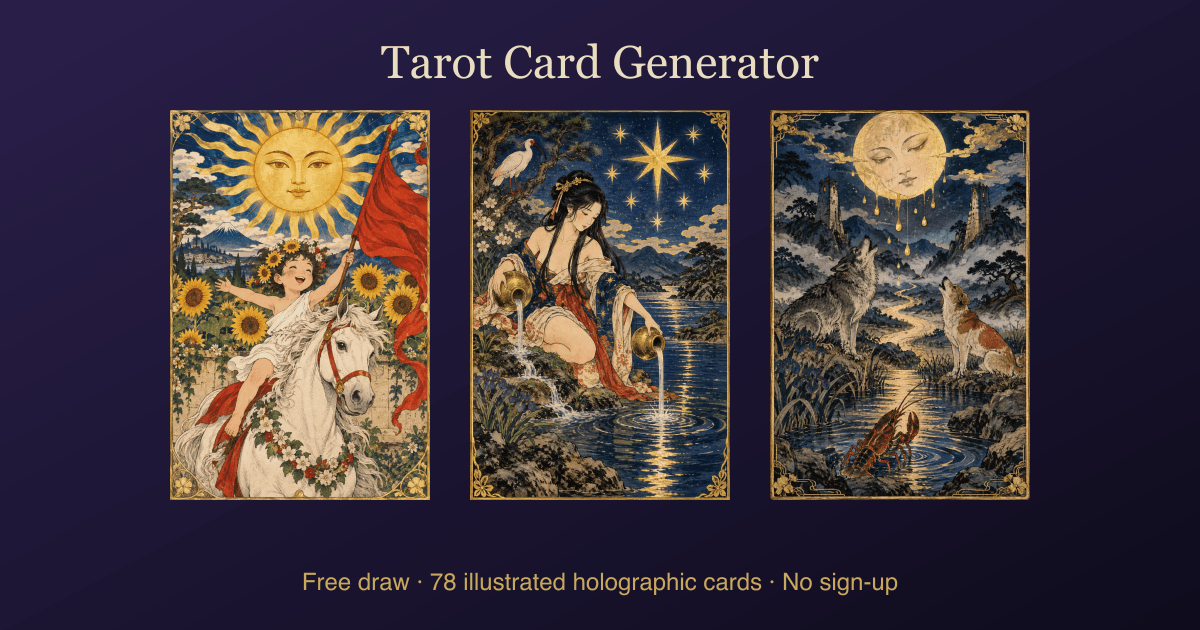
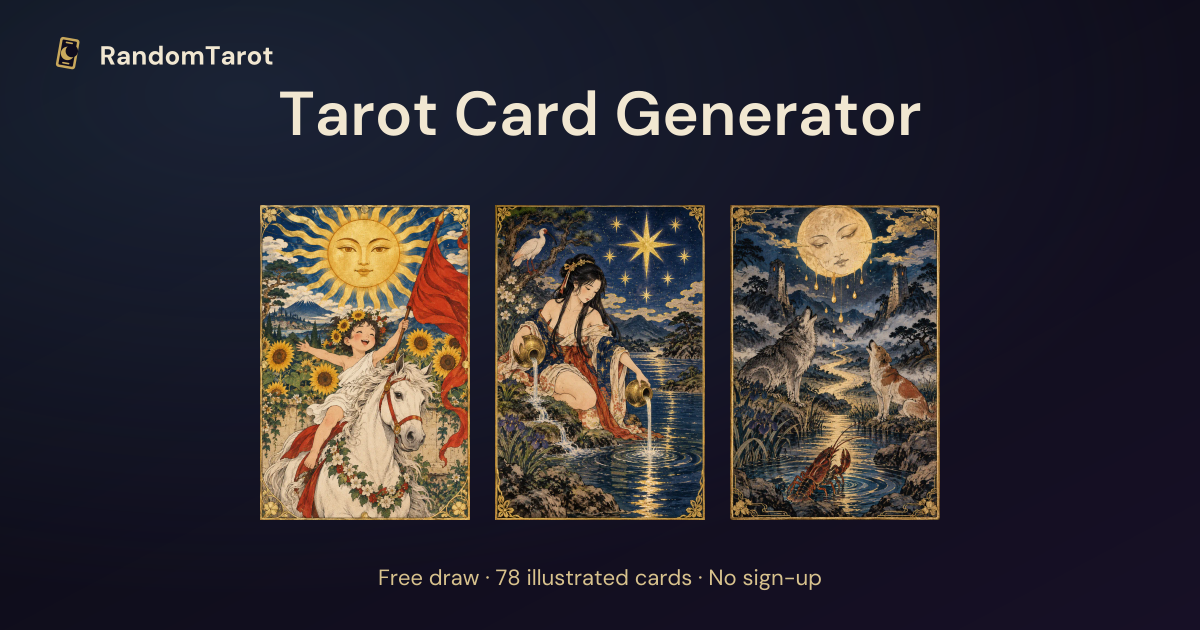
design(type): move to a sans-serif display system and complete brand assets (#44)

diff --git a/public/styles.css b/public/styles.css
@@ -1,9 +1,7 @@
 @font-face{font-family:"DM Sans";font-style:normal;font-weight:400 700;font-display:swap;src:url("/fonts/dm-sans-latin.v1.woff2") format("woff2")}
 @font-face{font-family:"IBM Plex Mono";font-style:normal;font-weight:400;font-display:swap;src:url("/fonts/ibm-plex-mono-regular.v1.woff2") format("woff2")}
 @font-face{font-family:"IBM Plex Mono";font-style:normal;font-weight:500;font-display:swap;src:url("/fonts/ibm-plex-mono-medium.v1.woff2") format("woff2")}
-@font-face{font-family:"Instrument Serif";font-style:normal;font-weight:400;font-display:swap;src:url("/fonts/instrument-serif-regular.v1.woff2") format("woff2")}
-@font-face{font-family:"Instrument Serif";font-style:italic;font-weight:400;font-display:swap;src:url("/fonts/instrument-serif-italic.v1.woff2") format("woff2")}
-:root{--bg:#080b12;--bg2:#0d1320;--card:#111927;--card-raised:#162131;--line:#2a3445;--line-soft:rgba(216,194,141,.16);--text:#f1eee6;--muted:#a4adbb;--gold:#d8c28d;--gold2:#d8c28d;--accent:#f07b5a;--accent-dark:#080b12;--danger:#ff9a8a;--ok:#9ec8ac;--radius:16px;--font:"Instrument Serif",Georgia,serif;--sans:"DM Sans",sans-serif;--mono:"IBM Plex Mono",monospace;--text-meta:.75rem;--text-secondary:.875rem}
+:root{--bg:#080b12;--bg2:#0d1320;--card:#111927;--card-raised:#162131;--line:#2a3445;--line-soft:rgba(216,194,141,.16);--text:#f1eee6;--muted:#a4adbb;--gold:#d8c28d;--gold2:#d8c28d;--accent:#f07b5a;--accent-dark:#080b12;--danger:#ff9a8a;--ok:#9ec8ac;--radius:16px;--font:"DM Sans",system-ui,-apple-system,"Segoe UI",sans-serif;--sans:"DM Sans",sans-serif;--mono:"IBM Plex Mono",monospace;--text-meta:.75rem;--text-secondary:.875rem}
 *{box-sizing:border-box}html{-webkit-text-size-adjust:100%;scroll-behavior:smooth;background:var(--bg)}
 body{margin:0;background:radial-gradient(circle at 12% 4%,rgba(57,78,113,.2),transparent 32rem),radial-gradient(circle at 90% 32%,rgba(240,123,90,.055),transparent 28rem),var(--bg);color:var(--text);font-family:var(--sans);line-height:1.65;min-height:100vh;display:flex;flex-direction:column;overflow-x:clip}
 body::before{content:"";position:fixed;inset:0;pointer-events:none;z-index:-1;opacity:.42;background-image:radial-gradient(circle at 8% 16%,#d8c28d 0 1px,transparent 1.5px),radial-gradient(circle at 78% 8%,#f1eee6 0 1px,transparent 1.5px),radial-gradient(circle at 91% 42%,#d8c28d 0 1px,transparent 1.5px),radial-gradient(circle at 18% 72%,#f1eee6 0 1px,transparent 1.5px),radial-gradient(circle at 62% 86%,#d8c28d 0 1px,transparent 1.5px);background-size:29rem 31rem,37rem 41rem,43rem 47rem,53rem 59rem,61rem 67rem}

diff --git a/public/typography.css b/public/typography.css
@@ -1,0 +1,29 @@
+/* RandomTarot type system: one sans-serif family, three deliberate sizes. */
+:root{
+  --font:"DM Sans",system-ui,-apple-system,"Segoe UI",sans-serif;
+  --display:"DM Sans",system-ui,-apple-system,"Segoe UI",sans-serif;
+  --text-meta:.75rem;
+  --text-secondary:.875rem;
+}
+h1,h2,h3{font-family:var(--display);font-weight:600;color:var(--text);text-wrap:balance}
+h1{font-size:clamp(2.8rem,6.2vw,5.4rem);line-height:.98;letter-spacing:-.055em}
+h2{font-size:clamp(1.95rem,3.8vw,3.1rem);line-height:1.04;letter-spacing:-.042em;margin-top:2.2rem}
+h3{font-size:clamp(1.25rem,1.6vw,1.5rem);line-height:1.15;letter-spacing:-.022em}
+/* Home: keyword-first headline, quiet supporting line. */
+.home-experience .reading-intro h1{font-family:var(--display);font-size:clamp(2.9rem,4.9vw,4.9rem);font-weight:600;line-height:.94;letter-spacing:-.058em;text-transform:none;color:var(--text);margin:.35rem 0 .75rem;max-width:11ch}
+.home-experience .reading-intro .hero-line{font-family:var(--display);font-size:clamp(1.35rem,2.15vw,1.95rem);font-weight:400;line-height:1.18;letter-spacing:-.028em;color:var(--muted);margin:.2rem 0 1.15rem}
+.reading-intro .intro-copy{max-width:38ch}
+.reading-page-intro h1{font-weight:600;letter-spacing:-.052em}
+/* Reading table and report surfaces. */
+.table-welcome h2{font-weight:600;letter-spacing:-.052em}
+.ritual-heading h2,.ritual-reveal-screen .revealed-meaning h3{font-weight:600}
+.report-preview-paper h4{font-weight:600;letter-spacing:-.025em}
+.orientation-label,.table-format{font-family:var(--sans);font-weight:600;letter-spacing:.09em}
+.table-format{text-transform:uppercase}
+.table-welcome-actions p,.flow-topline,.table-toolbar{font-family:var(--sans);letter-spacing:.01em}
+@media(max-width:760px){
+  .home-experience .reading-intro h1{font-size:clamp(2.5rem,11vw,3.45rem);line-height:.96;letter-spacing:-.058em;max-width:12ch}
+  .reading-page-intro h1{font-size:clamp(2.35rem,11.5vw,3.4rem);letter-spacing:-.05em}
+  h2{font-size:clamp(1.8rem,7vw,2.35rem);letter-spacing:-.04em}
+  h3{font-size:1.25rem}
+}

diff --git a/tests/seo-mobile-ritual.test.ts b/tests/seo-mobile-ritual.test.ts
@@ -57,6 +57,9 @@ describe('mobile-first SEO regression', () => {
     expect(source('README.md')).toContain('# RandomTarot');
     expect(base).toContain('/brand/logo-horizontal-dark.svg');
     expect(base).toContain('/apple-touch-icon.png');
+    expect(base).toContain('/site.webmanifest');
+    expect(base).toContain('/typography.css');
+    expect(source('public/typography.css')).toContain("--font:\"DM Sans\"");
     expect(base).toContain('/favicon.svg');
   });
 
